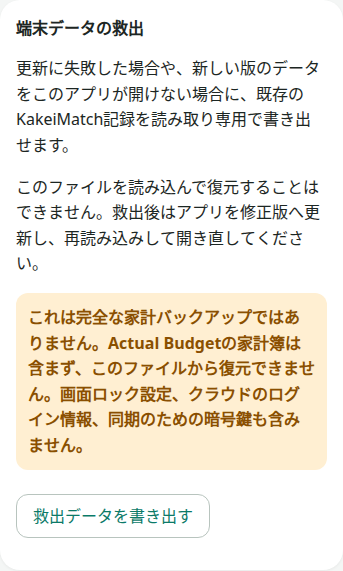
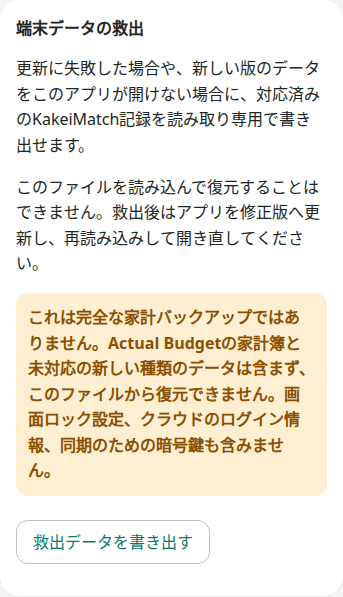
fix: 救出対象を既知のデータ種別に限定

Changed region(s): [[0.0292, 0.2977, 0.9621, 0.8336], [0.0292, 0.0298, 0.9329, 0.268], [0.0292, 0.8634, 0.6122, 0.9527]]

diff --git a/apps/pwa/src/local-data-rescue.ts b/apps/pwa/src/local-data-rescue.ts
@@ -1,5 +1,13 @@
 import { LOCAL_DATABASE_NAME, LOCAL_PROFILE_KEY } from '../../../src/lib/local-data';
 
+// Keep recovery output limited to record types the current app understands.
+const RESCUABLE_RECORD_KINDS: ReadonlySet<string> = new Set([
+  'receipt-metadata', 'receipt-extraction', 'category-state', 'merchant-mapping',
+  'statement-import', 'statement-transaction', 'reconciliation-run', 'reconciliation-result',
+  'reconciliation-resolution', 'correction-audit', 'account-metadata',
+]);
+const RESCUABLE_BLOB_OWNER_KINDS: ReadonlySet<string> = new Set(['receipt', 'statement-import']);
+
 export const LOCAL_RESCUE_LIMITS = {
   maxRecords: 10_000,
   maxTotalRecordBytes: 32 * 1024 * 1024,
@@ -35,6 +43,8 @@ export interface LocalDataRescueFile {
     excludes: string[];
     warning: string;
     skippedSensitiveRecords: number;
+    skippedUnknownRecords: number;
+    skippedUnknownBlobs: number;
   };
   records: RescueRecord[];
   blobs: RescueBlob[];
@@ -149,17 +159,27 @@ export async function createLocalDataRescueFile(options: {
 
     const records: RescueRecord[] = [];
     let skippedSensitiveRecords = 0;
+    let skippedUnknownRecords = 0;
     for (const row of storedRecords) {
       if (row.kind === 'app-settings' || containsCryptoKey(row)) {
         skippedSensitiveRecords += 1;
+        continue;
+      }
+      if (typeof row.kind !== 'string' || !RESCUABLE_RECORD_KINDS.has(row.kind)) {
+        skippedUnknownRecords += 1;
         continue;
       }
       records.push({ id: String(row.id), kind: String(row.kind), value: row.value, updatedAt: String(row.updatedAt) });
     }
 
     let totalBytes = 0;
+    let skippedUnknownBlobs = 0;
     const blobs: RescueBlob[] = [];
     for (const row of storedBlobs) {
+      if (typeof row.ownerKind !== 'string' || !RESCUABLE_BLOB_OWNER_KINDS.has(row.ownerKind)) {
+        skippedUnknownBlobs += 1;
+        continue;
+      }
       const blob = row.blob;
       if (!(blob instanceof Blob)) throw new Error('原本の形式を確認できません。データは変更していません。');
       const read = await readBlobChunks(blob, totalBytes);
@@ -176,11 +196,13 @@ export async function createLocalDataRescueFile(options: {
       version: 1,
       exportedAt: (options.now ?? (() => new Date()))().toISOString(),
       manifest: {
-        scope: '選択中プロフィールのKakeiMatch端末内IndexedDB。復旧用の読み取り専用救出データです。',
-        includes: ['recordsストアの対象プロフィール記録（JSON化した読取量が合計32 MiB以内。設定とCryptoKeyを含む記録を除外）', 'blobsストアの対象プロフィール原本（1 MiB単位のBase64チャンク、1件32 MiB・合計64 MiB以内）'],
-        excludes: ['Actual Budgetの家計簿とデータベース', 'app-settings', '画面ロック設定', 'Cloud credentials・session・AI token', '同期用CryptoKey', '別プロフィール', '他のブラウザーデータベース'],
-        warning: 'これは完全な家計バックアップではありません。.kmb形式ではなく、このアプリから復元できません。Actual Budgetの家計簿を含みません。公開せず、更新後の復旧支援に限って保管してください。',
+        scope: '選択中プロフィールのKakeiMatch端末内IndexedDBにある既知のrecord kindとblob owner kind。復旧用の読み取り専用救出データです。',
+        includes: ['対応済みrecord kindの対象プロフィール記録（JSON化した読取量が合計32 MiB以内。設定とCryptoKeyを含む記録を除外）', 'owner kindがreceiptまたはstatement-importの原本（1 MiB単位のBase64チャンク、1件32 MiB・合計64 MiB以内）'],
+        excludes: ['Actual Budgetの家計簿とデータベース', 'app-settings', '画面ロック設定', 'クラウドのログイン情報・session・AI token', '同期用CryptoKey', '未対応のrecord kindとblob owner kind', '別プロフィール', '他のブラウザーデータベース'],
+        warning: 'これは完全な家計バックアップではありません。.kmb形式ではなく、このアプリから復元できません。Actual Budgetの家計簿と未対応の将来データを含みません。公開せず、更新後の復旧支援に限って保管してください。',
         skippedSensitiveRecords,
+        skippedUnknownRecords,
+        skippedUnknownBlobs,
       },
       records,
       blobs,

diff --git a/src/lib/local-data-rescue.test.ts b/src/lib/local-data-rescue.test.ts
@@ -30,12 +30,20 @@ async function seedFutureDatabase(factory: IDBFactory): Promise<void> {
     value: { cloudToken: 'synthetic-secret' }, updatedAt: '2026-09-30T00:00:00.000Z',
   });
   tx.objectStore('records').put({
+    key: `${profileId}\0sync-session`, profileId, id: 'sync-session', kind: 'sync-session',
+    value: { token: 'synthetic-future-cloud-secret' }, updatedAt: '2026-09-30T00:00:00.000Z',
+  });
+  tx.objectStore('records').put({
     key: `other\0foreign`, profileId: 'other', id: 'foreign', kind: 'receipt-metadata',
     value: { merchant: 'Other profile' }, updatedAt: '2026-09-30T00:00:00.000Z',
   });
   tx.objectStore('blobs').put({
     key: `${profileId}\0image`, profileId, id: 'image', ownerKind: 'receipt', ownerId: 'kept',
     blob: new Blob(['synthetic image payload'], { type: 'image/jpeg' }), contentType: 'image/jpeg', createdAt: '2026-09-30T00:00:00.000Z',
+  });
+  tx.objectStore('blobs').put({
+    key: `${profileId}\0sync-attachment`, profileId, id: 'sync-attachment', ownerKind: 'sync-session', ownerId: 'sync-session',
+    blob: new Blob(['synthetic future secret payload']), contentType: 'application/octet-stream', createdAt: '2026-09-30T00:00:00.000Z',
   });
   tx.objectStore('unrelated-credentials').put({ token: 'must-not-export' }, 'credential');
   await new Promise<void>((resolve, reject) => { tx.oncomplete = () => resolve(); tx.onabort = () => reject(tx.error); });
@@ -56,8 +64,13 @@ describe('createLocalDataRescueFile', () => {
     expect(file.manifest.excludes).toContain('Actual Budgetの家計簿とデータベース');
     expect(file.records.map(row => row.id)).toEqual(['kept']);
     expect(file.manifest.skippedSensitiveRecords).toBe(1);
+    expect(file.manifest.skippedUnknownRecords).toBe(1);
+    expect(file.manifest.skippedUnknownBlobs).toBe(1);
     expect(file.blobs).toHaveLength(1);
     expect(file.blobs[0]?.chunksBase64).toEqual([Buffer.from('synthetic image payload').toString('base64')]);
+    expect(JSON.stringify(file)).not.toContain('synthetic-future-cloud-secret');
+    expect(JSON.stringify(file)).not.toContain('synthetic future secret payload');
+    expect(file.manifest.excludes).toContain('未対応のrecord kindとblob owner kind');
 
     const reopened = await open(factory, 3);
     expect(reopened.version).toBe(3);

diff --git a/apps/pwa/src/main.ts b/apps/pwa/src/main.ts
@@ -36,9 +36,9 @@ root.innerHTML = `
     <p class="status" id="message" role="status"></p>
     <section id="migration-rescue" class="surface-section migration-rescue" aria-labelledby="migration-rescue-title" hidden>
       <h2 id="migration-rescue-title">端末データの救出</h2>
-      <p>更新に失敗した場合や、新しい版のデータをこのアプリが開けない場合に、既存のKakeiMatch記録を読み取り専用で書き出せます。</p>
+      <p>更新に失敗した場合や、新しい版のデータをこのアプリが開けない場合に、対応済みのKakeiMatch記録を読み取り専用で書き出せます。</p>
       <p>このファイルを読み込んで復元することはできません。救出後はアプリを修正版へ更新し、再読み込みして開き直してください。</p>
-      <p class="migration-rescue-warning">これは完全な家計バックアップではありません。Actual Budgetの家計簿は含まず、このファイルから復元できません。画面ロック設定、クラウドのログイン情報、同期のための暗号鍵も含みません。</p>
+      <p class="migration-rescue-warning">これは完全な家計バックアップではありません。Actual Budgetの家計簿と未対応の新しい種類のデータは含まず、このファイルから復元できません。画面ロック設定、クラウドのログイン情報、同期のための暗号鍵も含みません。</p>
       <button id="migration-rescue-export" class="secondary" type="button">救出データを書き出す</button>
       <p id="migration-rescue-status" role="status" aria-live="polite"></p>
     </section>
